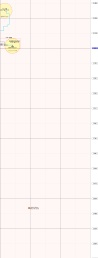
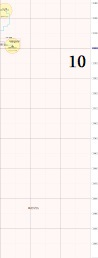
test01

Changed region(s): [[0.7041, 0.186, 0.8878, 0.2791]]

diff --git a/test01.html b/test01.html
@@ -1,0 +1,69 @@
+<!DOCTYPE html>
+<html>
+<head>
+  <meta charset="UTF-8">
+  <title>DeepZoom編集サンプル</title>
+  <script src="https://openseadragon.github.io/openseadragon/openseadragon.min.js"></script>
+  <script src="https://cdn.jsdelivr.net/npm/@supabase/supabase-js@2"></script>
+  <style>
+    #viewer { width: 800px; height: 600px; position: relative; }
+    #overlay { position: absolute; top:0; left:0; pointer-events: none; }
+  </style>
+</head>
+<body>
+  <h2>DeepZoomタイル編集サンプル</h2>
+  <div id="viewer"></div>
+  <canvas id="overlay"></canvas>
+  <button onclick="saveAnnotations()">保存</button>
+
+<script>
+const supabaseUrl = 'https://sbwfgkzmruesocvzvkur.supabase.co'  // ここを置き換え
+const supabaseKey = 'sb_publishable_aaBZ938HOWD6-v3XTtypfA_7ZdoizBh'                     // ここを置き換え
+const supabase = supabase.createClient(supabaseUrl, supabaseKey)
+
+// OpenSeadragonでタイル表示
+var viewer = OpenSeadragon({
+    id: "viewer",
+    prefixUrl: "https://openseadragon.github.io/openseadragon/images/",
+    tileSources: {
+        type: 'image',
+        url: 'https://scesselsc.github.io/2434map3/2434map_new_files/13/0_0.jpg', // 最初のタイル
+        buildPyramid: false
+    }
+});
+
+// Canvasレイヤー
+var canvas = document.getElementById('overlay');
+canvas.width = 800;
+canvas.height = 600;
+var ctx = canvas.getContext('2d');
+
+var annotations = []
+
+// クリックで点を描画
+viewer.addHandler('canvas-click', function(event){
+    var webPoint = event.position;
+    var viewportPoint = viewer.viewport.pointFromPixel(webPoint);
+    var imagePoint = viewer.viewport.viewportToImageCoordinates(viewportPoint);
+    var x = imagePoint.x / viewer.world.getItemAt(0).getContentSize().x;
+    var y = imagePoint.y / viewer.world.getItemAt(0).getContentSize().y;
+
+    ctx.fillStyle = 'red';
+    ctx.beginPath();
+    ctx.arc(webPoint.x, webPoint.y, 5, 0, Math.PI*2);
+    ctx.fill();
+
+    annotations.push({x:x, y:y, type:'dot', color:'red'});
+});
+
+// 保存関数
+async function saveAnnotations(){
+    const { data, error } = await supabase
+        .from('annotations')
+        .insert([{data: annotations}]);
+    if(error) alert('保存エラー:'+error.message);
+    else alert('保存完了!');
+}
+</script>
+</body>
+</html>

diff --git a/2434map_new_nether_files/README.md b/2434map_new_nether_files/README.md
@@ -1,5 +1,5 @@
 # 2434map3 新鯖ネザーMAP 
-ズーム使用画像フォルダ　11,12,13,14<br>
+ズーム使用画像フォルダ　10,11,12,13,14<br>
 <br>
 [やること一覧を見る](https://github.com/SCesselSC/2434map3/issues)<br>
 [新鯖ネザーMAP更新履歴を見る](https://github.com/SCesselSC/2434map3/blob/master/2434map_new_nether_files/CHANGELOG.md)<br>
